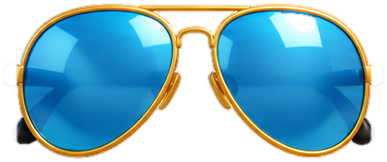
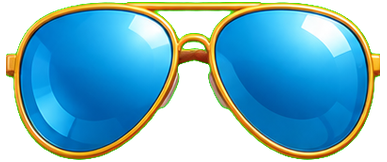
Anteojos y antifaces rehechos de frente, sin patillas y sin vidrio (no se ve nada a través de lo que debería tapar la cabeza); mate y lupa con el dibujo correcto (no la pose del profe); láminas 10 a 15 de colecciones y antifaces superespeciales; auditoría de autoría del 5/10 y estado del repertorio 
Claude-Session: https://claude.ai/code/session_01SPPTr2racw1JTYY32BfLg9

diff --git a/src/lib/coleccion/imagenes-listas.ts b/src/lib/coleccion/imagenes-listas.ts
@@ -1,11 +1,13 @@
 // Generado por scripts/coleccion/listar-imagenes.ts: no editar a mano.
 // Ítems de las colecciones que ya tienen imagen en public/theme.
 export const IMAGENES_LISTAS = new Set<string>([
+  "abaco",
   "agricultor",
   "anteojos-67",
   "anteojos-arcoiris",
   "anteojos-carpincho",
   "anteojos-estrellas",
+  "anteojos-lectura",
   "anteojos-manteca",
   "anteojos-margaritas",
   "anteojos-nube",
@@ -22,15 +24,22 @@ export const IMAGENES_LISTAS = new Set<string>([
   "banderin-tablas-oro",
   "banderin-tablas-plata",
   "baston-caramelo",
+  "binoculares-parque",
   "biologa",
+  "bola-nieve",
   "bombo-leguero",
   "brigadista",
+  "brujula-parque",
   "buzo",
   "caballo-criollo",
   "cadena-67",
   "caldero",
   "camara-naturaleza",
+  "campana-navidad",
+  "cantimplora",
   "capitana",
+  "caracola",
+  "cartel-parque",
   "cartografa",
   "cetro-numeros-bronce",
   "cetro-numeros-oro",
@@ -39,19 +48,32 @@ export const IMAGENES_LISTAS = new Set<string>([
   "collar-estrella-bronce",
   "collar-estrella-oro",
   "collar-estrella-plata",
+  "collar-huellita",
+  "confeti",
+  "corona-carnaval",
+  "corona-plumas",
+  "corona-tablas-bronce",
+  "corona-tablas-oro",
+  "corona-tablas-plata",
+  "crayones",
   "cronometro-tablas-bronce",
   "cronometro-tablas-oro",
   "cronometro-tablas-plata",
   "ecoexploradora",
   "elfo",
   "escoba-voladora",
+  "estrella-fugaz-bronce",
+  "estrella-fugaz-oro",
+  "estrella-fugaz-plata",
   "explorador-futuro",
   "exploradora-gato",
   "gato-naranja",
   "gato-siames",
   "gauchito",
+  "globo-terraqueo",
   "globos-67",
   "gorra-67",
+  "gorra-escolar",
   "gorra-tablas-bronce",
   "gorra-tablas-oro",
   "gorra-tablas-plata",
@@ -62,12 +84,17 @@ export const IMAGENES_LISTAS = new Set<string>([
   "guardiana-renos",
   "guia-montana",
   "guitarra",
+  "hueso",
+  "insignia-guardaparque",
   "investigador-cultural",
   "jardinera",
+  "lapiz-gigante",
+  "lentes-playa",
   "lentes-turbo",
   "lentes-turbo-bronce",
   "lentes-turbo-oro",
   "lentes-turbo-plata",
+  "libro-culturas",
   "libro-hechizos",
   "logro-caperucita",
   "logro-cigarra-hormiga",
@@ -94,23 +121,38 @@ export const IMAGENES_LISTAS = new Set<string>([
   "logro-traje-emperador",
   "logro-tres-chanchitos",
   "logro-zorro-cuervo",
+  "lupa",
   "mago",
+  "mapa-parque",
+  "mascara-carnaval",
   "mascota-arana",
+  "mascota-buho",
   "mascota-caballo",
+  "mascota-cangrejo",
+  "mascota-condor",
   "mascota-conejo",
+  "mascota-delfin",
   "mascota-gato",
   "mascota-gato-negro",
+  "mascota-guanaco",
+  "mascota-huemul",
   "mascota-murcielago",
+  "mascota-osito-polar",
   "mascota-oveja",
   "mascota-ovejero",
+  "mascota-pinguino",
+  "mascota-reno",
+  "mascota-zorro-artico",
   "mate",
   "medalla-67",
+  "medalla-amigo-animales",
   "medalla-rayo",
   "medalla-rayo-bronce",
   "medalla-rayo-oro",
   "medalla-rayo-plata",
   "mini-dragon",
   "mini-yaguarete",
+  "mochila-legendaria",
   "mochila-mascota",
   "monio-67",
   "montanista",
@@ -122,11 +164,16 @@ export const IMAGENES_LISTAS = new Set<string>([
   "paisanita",
   "papa-noel",
   "payador",
+  "pelota-playa",
   "perro-ovejero",
   "perro-salchicha",
+  "pila-libros",
   "poncho-gran-explorador",
+  "radio-parque",
+  "regalo",
   "reina-carnaval",
   "rey-carnaval",
+  "sombrero-playa",
   "squishy-6",
   "squishy-7",
   "squishy-carpincho",
@@ -140,7 +187,14 @@ export const IMAGENES_LISTAS = new Set<string>([
   "squishy-tostada",
   "superestudiante",
   "surfista",
+  "tabla-dorada",
+  "tabla-surf",
+  "tambor",
   "termo",
+  "trineo-volador",
+  "trofeo-tablas-bronce",
+  "trofeo-tablas-oro",
+  "trofeo-tablas-plata",
   "varita-magica",
   "veterinaria",
   "viajera-mundo",

diff --git a/scripts/coleccion/anteojos_verde.py b/scripts/coleccion/anteojos_verde.py
@@ -1,0 +1,96 @@
+"""Anteojos y antifaces dibujados sobre FONDO VERDE (#00FF00), sin patillas y
+con los marcos sin vidrio: se quita el verde (también el que se ve por los
+huecos de los ojos) y se reemplaza la imagen que ya había, en el mismo lugar
+y del mismo tamaño, así sigue calzando igual en la cara del avatar.
+
+Pedido de Pedro (5/10/2026): «quitar las partes que deberían taparse con la
+cabeza; por ejemplo, en los lentes transparentes, las patitas que se ven a
+través del vidrio».
+
+Uso: python3 scripts/coleccion/anteojos_verde.py <lamina.png> <id1> ... <id9>
+     (un «-» para saltear un cuadro)
+"""
+import glob
+import os
+import sys
+
+import numpy as np
+from PIL import Image
+from scipy import ndimage
+
+ROOT = os.path.join(os.path.dirname(__file__), "..", "..")
+THEME = os.path.join(ROOT, "public", "theme")
+
+
+def sacar_verde(im: Image.Image) -> Image.Image:
+    a = np.array(im.convert("RGB")).astype(np.float32)
+    r, g, b = a[..., 0], a[..., 1], a[..., 2]
+    # Distancia al verde del fondo (#00FF00): así no se borran los verdes de
+    # los dibujos (palta, rana, hojas), que son más oscuros o apagados.
+    dist = np.sqrt(r**2 + (255 - g) ** 2 + b**2)
+    alpha = np.clip((dist - 35) / 45.0, 0, 1)
+    # Bordes: sacar el reflejo verde solo donde se mezcla con el fondo.
+    # (solo un poco y solo en grises/metales contaminados: los verdes propios
+    # del dibujo —rana, palta— se dejan como están).
+    cerca = ndimage.binary_dilation(alpha < 1, iterations=3)
+    exceso = g - np.maximum(r, b)
+    tocar = cerca & (exceso > 0) & (exceso < 45) & (np.minimum(r, b) > 90)
+    g2 = np.where(tocar, g - 0.7 * exceso, g)
+    out = np.dstack([r, g2, b, alpha * 255]).astype(np.uint8)
+    # Islas chiquitas y líneas finas (restos de la grilla): afuera.
+    m = out[..., 3] > 30
+    lab, n = ndimage.label(m)
+    if n:
+        sizes = ndimage.sum(m, lab, range(1, n + 1))
+        objs = ndimage.find_objects(lab)
+        for i, s in enumerate(sizes):
+            sl = objs[i]
+            alto, ancho = sl[0].stop - sl[0].start, sl[1].stop - sl[1].start
+            if s < 0.01 * sizes.max() or alto <= 8 or ancho <= 8:
+                out[..., 3][lab == i + 1] = 0
+    return Image.fromarray(out)
+
+
+def recortar(im: Image.Image) -> Image.Image:
+    bb = im.split()[3].getbbox()
+    return im.crop(bb) if bb else im
+
+
+def destino(id_: str) -> str:
+    for c in ["accessories-tienda", "accessories-temporada", "accessories-estandar", "accessories"]:
+        p = os.path.join(THEME, c, f"{id_}.png")
+        if os.path.exists(p):
+            return p
+    raise SystemExit(f"No encuentro la imagen actual de {id_} (hace falta para saber el tamaño y el lugar).")
+
+
+def main():
+    lamina, ids = sys.argv[1], sys.argv[2:]
+    im = Image.open(lamina).convert("RGB")
+    W, H = im.size
+    for k, id_ in enumerate(ids[:9]):
+        if id_ == "-":
+            continue
+        fila, col = divmod(k, 3)
+        m = 10  # sin las líneas de la grilla
+        celda = im.crop((col * W // 3 + m, fila * H // 3 + m, (col + 1) * W // 3 - m, (fila + 1) * H // 3 - m))
+        pieza = recortar(sacar_verde(celda))
+        p = destino(id_)
+        viejo = Image.open(p).convert("RGBA")
+        x0, y0, x1, y1 = viejo.split()[3].getbbox()
+        kx = (x1 - x0) / pieza.width
+        ky = (y1 - y0) / pieza.height
+        s = min(kx, ky)
+        pieza = pieza.resize((max(1, round(pieza.width * s)), max(1, round(pieza.height * s))), Image.LANCZOS)
+        lienzo = Image.new("RGBA", viejo.size, (0, 0, 0, 0))
+        lienzo.alpha_composite(pieza, (x0 + (x1 - x0 - pieza.width) // 2, y0 + (y1 - y0 - pieza.height) // 2))
+        os.makedirs(os.path.join(ROOT, "arte", "coleccion", "anteojos-viejos"), exist_ok=True)
+        resguardo = os.path.join(ROOT, "arte", "coleccion", "anteojos-viejos", f"{id_}.png")
+        if not os.path.exists(resguardo):
+            viejo.save(resguardo)
+        lienzo.save(p, optimize=True)
+        print(f"✅ {id_} → {os.path.relpath(p, ROOT)}")
+
+
+if __name__ == "__main__":
+    main()

diff --git a/scripts/coleccion/huecos.py b/scripts/coleccion/huecos.py
@@ -1,0 +1,39 @@
+"""Vacía los huecos blancos encerrados (ojos de antifaces, marcos de anteojos
+sin vidrio): lo que se ve a través tiene que ser la cara del avatar.
+
+Uso: python3 scripts/coleccion/huecos.py public/theme/.../antifaz.png [...]
+"""
+import sys
+import numpy as np
+from PIL import Image
+from scipy import ndimage
+
+
+def vaciar_huecos(im: Image.Image, min_frac: float = 0.004) -> Image.Image:
+    a = np.array(im.convert("RGBA")).astype(np.int16)
+    rgb, al = a[..., :3], a[..., 3]
+    brillo = rgb.mean(-1)
+    sat = rgb.max(-1) - rgb.min(-1)
+    blanco = (brillo > 200) & (sat < 40) & (al > 0)
+    # Lo que NO es blanco ni transparente arma el «marco».
+    marco = (al > 30) & ~blanco
+    marco = ndimage.binary_closing(marco, iterations=2)
+    relleno = ndimage.binary_fill_holes(marco)
+    hueco = relleno & ~marco
+    lab, n = ndimage.label(hueco)
+    total = al.size
+    out = a.copy()
+    for i in range(1, n + 1):
+        comp = lab == i
+        if comp.sum() < min_frac * total:
+            continue  # brillitos chicos: se quedan
+        borde = ndimage.binary_dilation(comp, iterations=2)
+        out[..., 3][borde & blanco] = 0
+        out[..., 3][comp] = 0
+    return Image.fromarray(out.astype(np.uint8))
+
+
+if __name__ == "__main__":
+    for p in sys.argv[1:]:
+        vaciar_huecos(Image.open(p)).save(p, optimize=True)
+        print("✅", p)

diff --git a/scripts/coleccion/procesar_arte.py b/scripts/coleccion/procesar_arte.py
@@ -109,6 +109,8 @@ def procesar(id_, ruta):
 if __name__ == "__main__":
     pedidos = set(sys.argv[1:])
     rutas = sorted(sum((glob.glob(os.path.join(ROOT, "arte", "coleccion", "*", f"*.{e}")) for e in ("png", "jpg", "jpeg", "webp")), []))
+    # arte/coleccion/profe/ son las poses del profe (mate, lupa…): no son objetos.
+    rutas = [r for r in rutas if os.sep + "profe" + os.sep not in r]
     for r in rutas:
         id_ = os.path.splitext(os.path.basename(r))[0]
         if not pedidos or id_ in pedidos:

diff --git a/docs/CREDITOS-IMAGENES.md b/docs/CREDITOS-IMAGENES.md
@@ -30,7 +30,8 @@ poder comercializarse; hacé una auditoría para prevenir conflictos de autoría
 3. **Sin texto en las imágenes,** salvo los números de los drops (6 y 7).
 4. **Símbolos patrios** (bandera, escarapela, escudo, mapa de Malvinas): se pueden usar, siempre con respeto y sin deformarlos.
 5. **Pueblos originarios:** con respeto, sin disfraces ni caricaturas. Los atuendos se describen como «inspirados en», sin copiar piezas sagradas.
-6. **Registro de cada lámina** en la tabla del final: fecha, herramienta, tema y prompt (los prompts quedan en `scripts/coleccion/` y en el historial).
+6. **Objetos que se ponen en la cara o la cabeza** (pedido de Pedro, 5/10/2026): se dibujan de frente, **sin patillas** (ni las puntas a los costados) y con los **marcos sin vidrio**, para que no se vea nada «a través» que debería quedar tapado por la cabeza. Se piden sobre fondo verde liso y se procesan con `scripts/coleccion/anteojos_verde.py`, que deja los huecos transparentes y conserva el tamaño y el lugar de la imagen anterior (las viejas quedan en `arte/coleccion/anteojos-viejos/`).
+7. **Registro de cada lámina** en la tabla del final: fecha, herramienta, tema y prompt (los prompts quedan en `scripts/coleccion/` y en el historial).
 
 ## 4. Revisión de lo que ya está en la app (4/10/2026)
 
@@ -84,3 +85,15 @@ Todas son ilustraciones nuevas, sin texto, sin marcas y sin personajes conocidos
 - **Viaje a Monte León** (`public/theme/monte-leon/`, `accessories-temporada/*-ml.png`, `medalla-monte-leon`, `avatars/*-monte-leon.png`), generados en ChatGPT el 5/10/2026: objetos de la mochila, pingüino de peluche, medalla, tres avatares superespeciales, seis escenas del parque (ilustraciones, no fotos) e isla del mapa.
 - **Premios del repaso de las tablas en tres metales** (cronómetro, gorra y banderín de las tablas; trofeo, corona y estrella fugaz), ChatGPT, 5/10/2026.
 - **Cuento «La tortuga gigante», escena 2**: se le quitó el tercer ojo a la tortuga (retoque local, 5/10/2026).
+
+## 7. Revisión del 5/10/2026 (imágenes nuevas)
+
+Revisé una por una las láminas nuevas (Monte León, premios del repaso en tres metales, Six-Seven, láminas 9 a 15 de colecciones y los anteojos rehechos):
+
+- **Sin personajes, marcas ni logos de terceros.** Los avatares de Monte León (explorador, guardaparque, pingüino) son personajes originales. En la escena del guardaparque el cartel tiene solo dibujos (pingüino, basura tachada, huella), sin el logo de Parques Nacionales ni texto; el uniforme es genérico.
+- **Lugares reales** (Monte León, la Cabeza del León, la Ruta 3): son ilustraciones nuevas, no copias de fotos. Pintar un paisaje o un lugar público no infringe derechos.
+- **Bandera argentina** (isla de Monte León, bufanda del pingüino): símbolo patrio, usado con respeto (regla 4).
+- **«Six-Seven» y los números 6 y 7:** sin logos, tapas de canciones ni nombres de artistas.
+- **Un error encontrado y corregido:** los objetos «mate» y «lupa» de la lámina 9 y 15 se habían procesado con la imagen equivocada (la pose del profe con el mate y con la lupa, que tiene el mismo nombre de archivo). Se rehicieron con el dibujo del objeto y `procesar_arte.py` ya no mezcla las poses del profe con los objetos. La foto de Pedro solo se usa en las poses del profe, con su autorización.
+- **Anteojos y antifaces rehechos** (sin patillas y sin vidrio): lentes, anteojos de lectura, arcoíris, nube, margaritas, estrellas, carpincho, palta, manteca, rana, soles, copos, corazón, estrella, antifaz de carnaval, antifaz de murciélago (ahora con forma de murciélago), antiparras, lentes turbo, antifaces estelares, aviador, gafas de sol, lentes de sol, lentes de verano, anteojos 67 y anteojos de sol del viaje. Todos en ChatGPT (cuenta de Pedro), 5/10/2026. Los lentes de copos y el antifaz de murciélago antes estaban dibujados por código; ahora son de ChatGPT.
+- **Lo que sigue vigente del punto 2:** el uso comercial está permitido por los términos de OpenAI, pero una imagen hecha solo con IA puede no tener derecho de autor exclusivo. Lo que protege al proyecto es el aporte humano y el registro de la marca. Esto no es asesoramiento legal.

diff --git a/docs/equipo/IMAGENES.md b/docs/equipo/IMAGENES.md
@@ -67,5 +67,9 @@ Las escenas son 1536×1024 (3:2), en JPG.
 ## 7. Cuentos
 - `public/theme/grados/1/cuentos/tortuga-gigante-2.jpg`: corregida (la tortuga tenía tres ojos).
 
-## Pendientes de dibujo
-Se actualiza al final de cada tanda; ver la sección «Estado» abajo.
+## 8. Anteojos y antifaces (regla del 5/10/2026)
+Todo lo que se pone en la cara se dibuja **de frente, sin patillas y sin vidrio** (nada que «se vea a través» y que debería tapar la cabeza), sobre fondo verde, y se procesa con `scripts/coleccion/anteojos_verde.py <lámina> <id1> … <id9>`. Las versiones anteriores quedan en `arte/coleccion/anteojos-viejos/`.
+
+## Estado (5/10/2026, noche)
+- Con imagen: 212 ítems de colecciones; todo Monte León; los 36 premios del repaso; 25 anteojos y antifaces rehechos.
+- **Faltan** (láminas 16 a 21 de colecciones, 48 ítems): exploradores y navegantes (valija, gorro explorador, globo dorado, gorra de capitán, medallón ancla, catalejo, salvavidas, barquito, patito), selva (timón dorado, vincha yaguareté, binoculares, mochila selvática, mapa, tucán, huella dorada), jardín y ciencia (sombrero de jardín, maceta, regadera, girasol, microscopio, lombriz, árbol de la vida), montaña (gorro, antiparras de nieve, cuerda, carpa, mini montaña, bandera de cumbre), fiesta (gorro dorado, lentes de estrellas, globo, trompeta, cohete), ambiente (botella reutilizable, tacho de reciclaje, panel solar, bicicleta, abeja, mariposa, planeta verde) y lluvia y agua (gorro y botas de lluvia, juncos, rana, flamenco, tortuga, gota de cristal). Se están dibujando en ChatGPT.
